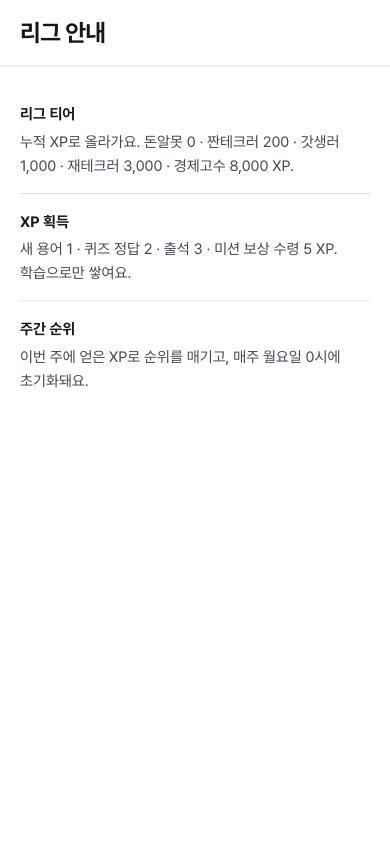
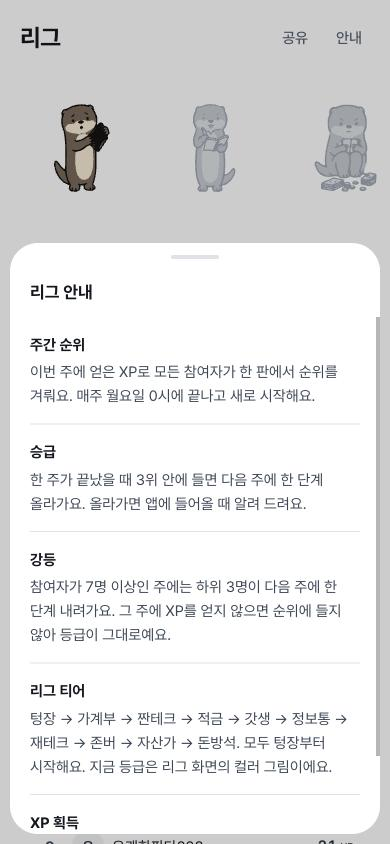
리그 화면에서 이번 주 내 순위 카드와 승급 조건 문구 제거, 남은 기간은 TOP 10 머리로, 규칙(주간 순위·승급·강등·티어·XP)은 안내 시트에 모아 씀

diff --git a/src/index.css b/src/index.css
@@ -1124,20 +1124,17 @@ button.course-home-rail-card:active { background: var(--color-surface); }
 .learning-completion-character { position: absolute; top: -96px; left: 50%; width: 128px; height: auto; transform: translateX(-50%); }
 .course-home-section-heading { margin-top: var(--space-6); }
 /* 리그: 이번 주 내 순위 카드 */
-.league-my-rank { margin-bottom: var(--space-6); padding: var(--space-5); border-radius: var(--shape-card); background: var(--color-card); box-shadow: var(--shadow-card); }
-.league-my-rank-value { margin-top: var(--space-1); color: var(--color-neutral-strong); font-size: var(--font-size-title-2); font-weight: var(--font-weight-bold); font-variant-numeric: tabular-nums; }
 
 /* 리그: 등급 단계 로드맵 */
 /* 등급 길: 큰 등급 그림을 가로로 넘겨 본다. 현재 등급은 처음에 가운데로 스크롤한다(LeagueScreen) */
 .league-tier-road { position: relative; display: flex; gap: var(--space-2); margin: 0; padding: var(--space-5) var(--space-2) var(--space-4); overflow-x: auto; border-radius: var(--shape-card); background: var(--color-card); box-shadow: var(--shadow-card); list-style: none; scroll-snap-type: x mandatory; scroll-padding-inline: var(--space-5); scrollbar-width: none; }
+.league-time-left { color: var(--color-ink-3); font-size: var(--font-size-caption); font-variant-numeric: tabular-nums; }
 .league-tier-road::-webkit-scrollbar { display: none; }
 .league-tier-step { position: relative; z-index: 1; display: flex; width: 124px; flex-shrink: 0; flex-direction: column; align-items: center; gap: var(--space-1); scroll-snap-align: center; }
 .league-tier-node { display: flex; width: 104px; height: 104px; align-items: center; justify-content: center; }
 .league-tier-step[data-state='done'] .league-tier-node { color: var(--color-ink-2); }
 .league-tier-step[data-state='current'] .league-tier-node { color: var(--color-accent-foreground); }
 .league-tier-step[data-state='future'] .league-tier-node .stage-glyph { opacity: 1; filter: none; }
-.league-promote-note { margin: calc(var(--section-gap) * -1 + var(--space-2)) 0 0; text-align: center; }
-.league-promote-note strong { color: var(--color-accent-foreground); font-weight: var(--font-weight-bold); }
 .league-tier-xp { color: var(--color-ink-3); font-size: var(--font-size-caption); font-variant-numeric: tabular-nums; }
 
 /* 모노 카드: 그림자 없이 검정 1.5px 테두리로 나눈다 */
@@ -1150,8 +1147,6 @@ button.course-home-rail-card:active { background: var(--color-surface); }
 button.home-review-entry { margin-bottom: 0; padding: var(--space-4) 0; border-radius: 0; background: transparent; box-shadow: none; border-bottom: 1px solid var(--color-line); }
 button.course-home-rail-card { width: 112px; padding: 0; border-radius: 0; background: transparent; box-shadow: none; }
 button.course-home-rail-card:active { background: transparent; opacity: 0.7; }
-.league-my-rank { margin-bottom: var(--space-5); padding: 0 0 var(--space-5); border-radius: 0; background: transparent; box-shadow: none; border-bottom: 1px solid var(--color-line); }
-.league-my-rank-value { font-size: var(--font-size-display); line-height: var(--line-height-tight); letter-spacing: var(--letter-spacing-display); }
 .league-tier-road { padding-inline: 0; border-radius: 0; background: transparent; box-shadow: none; }
 .quest-hero { padding: 0 0 var(--space-5); border-radius: 0; background: transparent; box-shadow: none; border-bottom: 1px solid var(--color-line); }
 #home-mission-list { gap: 0; margin-top: var(--space-2); }
@@ -1180,7 +1175,7 @@ button.quiz-option.border-transparent { border-color: var(--color-line-strong) !
 .course-home-overview { margin: 0 0 var(--section-gap) !important; padding: 0 var(--space-5); background: var(--color-card); }
 button.home-review-entry { border-bottom: 0; }
 .league-screen > div:first-child { padding-bottom: 0; }
-.league-my-rank, .league-tier-road { margin: 0 calc(var(--space-5) * -1) var(--section-gap); padding: var(--space-5); background: var(--color-card); border-bottom: 0; }
+.league-tier-road { margin: 0 calc(var(--space-5) * -1) var(--section-gap); padding: var(--space-5); background: var(--color-card); border-bottom: 0; }
 .league-ranking-section { padding-bottom: var(--space-5); background: var(--color-card); }
 .quest-hero { margin: 0 calc(var(--space-5) * -1); padding: var(--space-5); background: var(--color-card); border-bottom: 0; }
 .quest-missions-section { padding-bottom: var(--space-3); background: var(--color-card); }

diff --git a/src/pages/LeagueScreen.tsx b/src/pages/LeagueScreen.tsx
@@ -1,6 +1,6 @@
 import { useEffect, useRef, useState } from 'react';
 import { BottomSheet, TextButton, Spacing } from '@toss/tds-mobile';
-import { GROWTH_STAGES, getGrowthStage, LEAGUE_PROMOTE_TOP } from '../constants';
+import { GROWTH_STAGES, getGrowthStage } from '../constants';
 import { useAppContext } from '../context/AppContext';
 import { useAuth } from '../hooks/useAuth';
 import { supabase, getGuestClient } from '../lib/supabase';
@@ -47,7 +47,6 @@ const LeagueScreen = () => {
   }, [guestToken, reloadKey]);
 
   const stage = getGrowthStage(leagueStage ?? 1);
-  const nextStage = GROWTH_STAGES.find(s => s.id === stage.id + 1);
   const roadRef = useRef<HTMLOListElement>(null);
   useEffect(() => {
     const road = roadRef.current;
@@ -70,17 +69,7 @@ const LeagueScreen = () => {
           </div>
         </div>
 
-        {/* 이번 주 내 순위: 홈에서 옮겨 왔다 */}
-        <section aria-labelledby="league-my-rank" className="league-my-rank">
-          <h3 id="league-my-rank" className="type-supporting">이번 주 내 순위</h3>
-          {failed ? <button type="button" onClick={() => { setFailed(false); setRows(null); setReloadKey(key => key + 1); }} className="min-h-11 text-xs text-[var(--color-ink-2)] underline">순위 다시 불러오기</button> : <>
-            <p className="league-my-rank-value">{mine?.rank ? `${mine.rank}위` : '-'}</p>
-            <p className="type-supporting break-keep">{mine === null ? '순위 불러오는 중' : mine.rank ? `${mine.total.toLocaleString()}명 중 · ${mine.points.toLocaleString()}XP` : 'XP를 모으면 순위에 올라요'}</p>
-          </>}
-          <p className="mt-1! text-2xs text-[var(--color-ink-3)]">리그 종료까지 {timeLeftLabel()} 남았어요</p>
-        </section>
-
-        {/* 티어 로드맵: 테두리·선 없이 큰 등급 그림을 가로로 넘긴다. 현재 등급은 이름 색·굵기로 강조하고 처음에 가운데로 둔다 */}
+        {/* 티어 로드맵: 테두리·선 없이 큰 등급 그림을 가로로 넘기고 처음에 현재 등급을 가운데로 둔다. 규칙 설명은 안내 시트(LeagueRules)에만 둔다 */}
         <ol ref={roadRef} className="league-tier-road anim-fade-up" aria-label="등급 단계" style={{ '--i': 1 } as React.CSSProperties}>
           {GROWTH_STAGES.map(s => {
             const state = s.id < stage.id ? 'done' : s.id === stage.id ? 'current' : 'future';
@@ -91,19 +80,13 @@ const LeagueScreen = () => {
             );
           })}
         </ol>
-        {/* 승급 조건: 지금 순위가 3위 안이면 다음 주 승급 예정이라고 알려 준다 */}
-        {nextStage && <p className="league-promote-note type-supporting break-keep">
-          {mine?.rank && mine.rank <= LEAGUE_PROMOTE_TOP
-            ? <>지금 순위를 지키면 다음 주 <strong>{nextStage.name}</strong> 리그로 올라가요</>
-            : <>이번 주 <strong>{LEAGUE_PROMOTE_TOP}위 안</strong>에 들면 다음 주 {nextStage.name} 리그로 올라가요</>}
-        </p>}
       </div>
 
       {/* 랭킹 */}
       <div className="league-ranking-section px-5 pt-8">
         <div className="flex items-baseline justify-between mb-3">
           <h3 className="type-section-title">이번 주 TOP 10</h3>
-          <span className="text-2xs text-[var(--color-ink-4)]">매주 월요일 초기화</span>
+          <span className="league-time-left">리그 종료까지 {timeLeftLabel()} 남았어요</span>
         </div>
 
         {failed && (

diff --git a/src/pages/LeagueScreen.test.tsx b/src/pages/LeagueScreen.test.tsx
@@ -40,19 +40,21 @@ const mount = async () => {
   return container;
 };
 
-describe('리그로 옮긴 이번 주 내 순위', () => {
-  it('내 순위와 참여 인원, 이번 주 XP를 보여준다', async () => {
+describe('리그 화면 순위', () => {
+  it('남은 기간은 순위 머리에 두고, 내 순위 카드와 승급 문구는 두지 않는다', async () => {
     const container = await mount();
-    const card = container.querySelector('[aria-labelledby="league-my-rank"]');
-    expect(card).toHaveTextContent('3위');
-    expect(card).toHaveTextContent('13명 중 · 120XP');
-    expect(card).toHaveTextContent(/리그 종료까지 \d+(일|시간) 남았어요/);
+    expect(container.querySelector('.league-time-left')).toHaveTextContent(/리그 종료까지 \d+(일|시간) 남았어요/);
+    expect(container.querySelector('[aria-labelledby="league-my-rank"]')).toBeNull();
+    expect(container).not.toHaveTextContent('리그로 올라가요');
   });
 
-  it('아직 XP가 없으면 순위 대신 참여 방법을 알려준다', async () => {
-    state.mine.mockResolvedValue({ data: { rank: null, total: 13, points: 0 }, error: null });
+  it('10위 밖이면 내 순위를 목록 맨 아래에 붙인다', async () => {
+    state.top.mockResolvedValue({ data: [{ rank: 1, nickname: '다른사람', emoji: '', points: 300, is_me: false }], error: null });
+    state.mine.mockResolvedValue({ data: { rank: 13, total: 13, points: 120 }, error: null });
     const container = await mount();
-    expect(container.querySelector('[aria-labelledby="league-my-rank"]')).toHaveTextContent('XP를 모으면 순위에 올라요');
+    const mineRow = container.querySelector('.is-own-separate');
+    expect(mineRow).toHaveTextContent('13');
+    expect(mineRow).toHaveTextContent('120');
   });
 
   it('게스트는 인증 헤더가 있는 클라이언트로 조회하고 실패하면 다시 불러온다', async () => {
@@ -60,9 +62,9 @@ describe('리그로 옮긴 이번 주 내 순위', () => {
     state.mine.mockResolvedValueOnce({ data: null, error: { message: 'offline' } });
     const container = await mount();
     expect(state.guestClient).toHaveBeenCalledWith('test-guest');
-    const retry = [...container.querySelectorAll('button')].find(button => button.textContent === '순위 다시 불러오기')!;
+    expect(container).toHaveTextContent('순위를 불러오지 못했어요');
+    const retry = [...container.querySelectorAll('button')].find(button => button.textContent === '다시 시도')!;
     await act(async () => { retry.click(); });
-    expect(container.querySelector('[aria-labelledby="league-my-rank"]')).toHaveTextContent('3위');
-    expect(container).not.toHaveTextContent('순위 다시 불러오기');
+    expect(container).not.toHaveTextContent('순위를 불러오지 못했어요');
   });
 });

diff --git a/src/components/LeagueRules.tsx b/src/components/LeagueRules.tsx
@@ -4,9 +4,11 @@ import { GROWTH_STAGES, LEAGUE_DEMOTE_BOTTOM, LEAGUE_DEMOTE_MIN_PLAYERS, LEAGUE_
 // 에너지 규칙은 에너지 시트(EnergyShopContent)에만 둔다.
 // 티어 이름·기준은 리그 화면과 같은 GROWTH_STAGES에서 만든다(이름이 따로 놀지 않게)
 const RULES = [
-  { title: '리그 티어', desc: `${GROWTH_STAGES.map(s => s.name).join(' → ')}. 모두 ${GROWTH_STAGES[0].name}부터 시작해요. 주간 순위 ${LEAGUE_PROMOTE_TOP}위 안에 들면 다음 주에 한 단계 올라가고, 참여자가 ${LEAGUE_DEMOTE_MIN_PLAYERS}명 이상인 주에 하위 ${LEAGUE_DEMOTE_BOTTOM}명은 한 단계 내려가요.` },
+  { title: '주간 순위', desc: '이번 주에 얻은 XP로 모든 참여자가 한 판에서 순위를 겨뤄요. 매주 월요일 0시에 끝나고 새로 시작해요.' },
+  { title: '승급', desc: `한 주가 끝났을 때 ${LEAGUE_PROMOTE_TOP}위 안에 들면 다음 주에 한 단계 올라가요. 올라가면 앱에 들어올 때 알려 드려요.` },
+  { title: '강등', desc: `참여자가 ${LEAGUE_DEMOTE_MIN_PLAYERS}명 이상인 주에는 하위 ${LEAGUE_DEMOTE_BOTTOM}명이 다음 주에 한 단계 내려가요. 그 주에 XP를 얻지 않으면 순위에 들지 않아 등급이 그대로예요.` },
+  { title: '리그 티어', desc: `${GROWTH_STAGES.map(s => s.name).join(' → ')}. 모두 ${GROWTH_STAGES[0].name}부터 시작해요. 지금 등급은 리그 화면의 컬러 그림이에요.` },
   { title: 'XP 획득', desc: '새 용어 1 · 퀴즈 정답 2 · 출석 3 · 미션 보상 수령 5 XP. 학습으로만 쌓여요.' },
-  { title: '주간 순위', desc: '이번 주에 얻은 XP로 순위를 매기고, 매주 월요일 0시에 초기화돼요.' },
 ];
 
 export const LeagueRules = () => (

diff --git a/DESIGN.md b/DESIGN.md
@@ -131,7 +131,7 @@
 | ------ | -------------------------------------------------------------------- |
 | 홈     | 에너지 줄(바탕 위) → 연속 학습 → 오늘 할 학습 → 주제 둘러보기 → 복습 |
 | 퀘스트 | 요약(수달·완료 수·진행) → 오늘의 미션                                |
-| 리그   | 이번 주 내 순위 → 등급 단계 → 이번 주 TOP 10                         |
+| 리그   | 등급 단계 → 이번 주 TOP 10(머리 오른쪽에 남은 기간)                  |
 | 마이   | 프로필·통계 → 배지 → 메뉴                                            |
 
 ### 5-2. 카드는 네 곳에만
@@ -234,7 +234,7 @@
 
 ### 리그 (`/league`)
 
-- 이번 주 내 순위: 34px 순위, `N명 중 · XP`, "리그 종료까지 n일 남았어요"(하루 안이면 n시간).
+- 내 순위 카드와 승급 조건 문구는 두지 않는다. 규칙 설명(주간 순위·승급·강등·티어·XP)은 "안내" 시트(`LeagueRules`)에만 쓴다. 남은 기간은 TOP 10 머리 오른쪽 "리그 종료까지 n일 남았어요"(하루 안이면 n시간). 내가 10위 밖이면 목록 맨 아래에 내 행을 붙인다.
 - 등급 단계: 테두리·트랙 없이 104px 등급 그림 열 개를 가로로 넘긴다(칸 124px, 다음 칸이 살짝 보이게, 처음엔 현재 등급을 가운데로). 그림 아래 등급 이름은 두지 않는다. 지금과 지난 등급은 색 그림, 아직 못 간 등급은 회색 잠김본. 아래 한 줄로 승급 조건("이번 주 3위 안에 들면 다음 주 ○○ 리그로 올라가요", 지금 3위 안이면 "지금 순위를 지키면…").
 - TOP 10: 순위 목록 하나만 둔다(시상대는 같은 1~3위를 반복해서 뺐다). 1~3위는 보라 굵은 숫자, 내 행은 옅은 보라 면.
 
